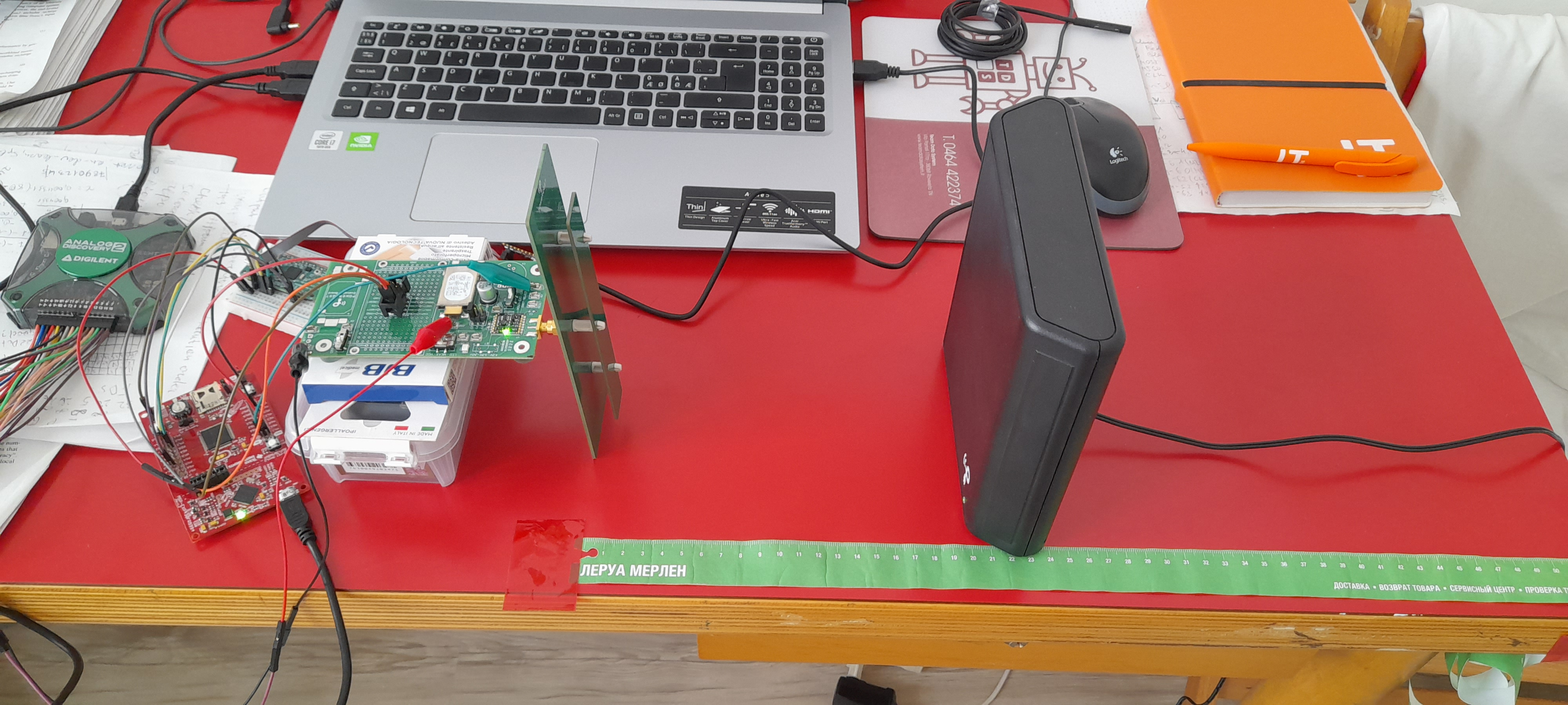
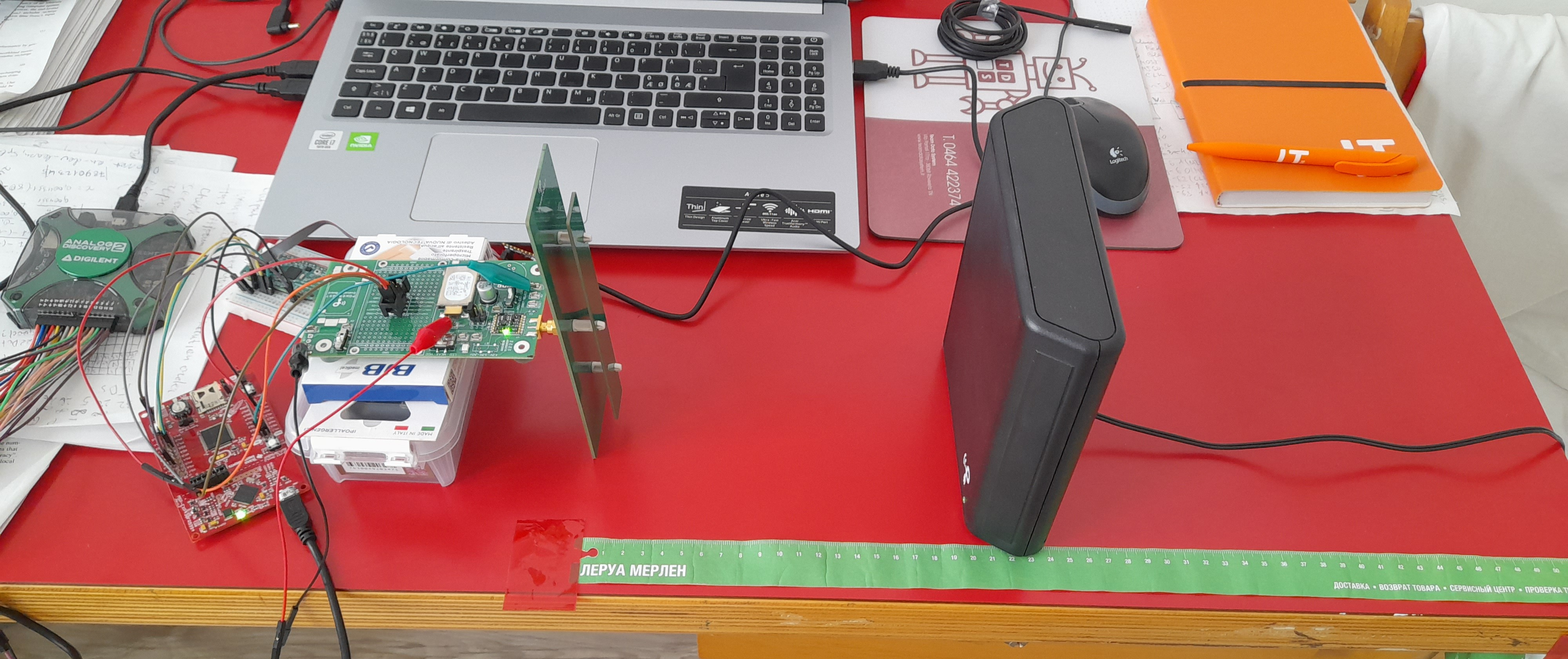
Figure extention is corrected

diff --git a/README.md b/README.md
@@ -23,8 +23,8 @@ PEARL power-aware scaling algorithm switches to the most performant multi-core e
 
 During the execution of the MAC operations on MAX32666, we track the voltage of the capacitor, locating the power source at different distance from the energy harvester, as shown in the figure below. For the AD AdaMICA and AD PEARL modes, the yellow and red fractions are executed in the 1C and 2C modes, respectively. Red dots denote power failures.
 
-<img src="img/short_distance.png" width="300">
-<img src="img/long_distance.png" width="300">
+<img src="img/short_distance.jpg" width="300">
+<img src="img/long_distance.jpg" width="300">
 
 <img src="img/macop_test.png" width="300">
 
